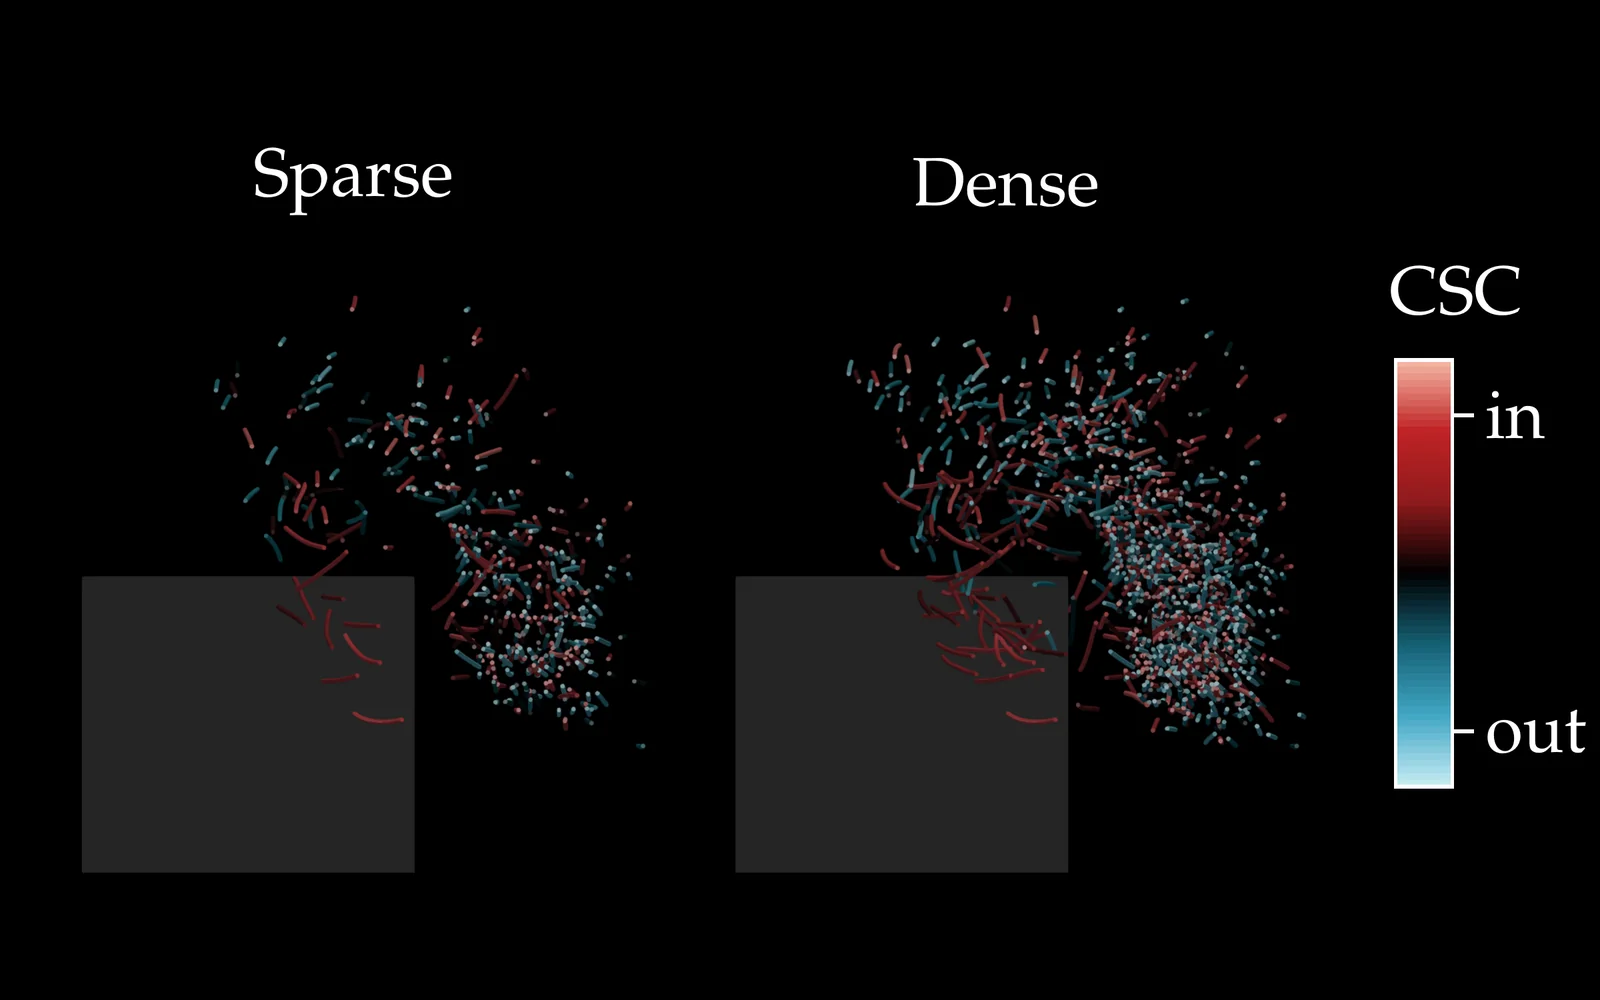
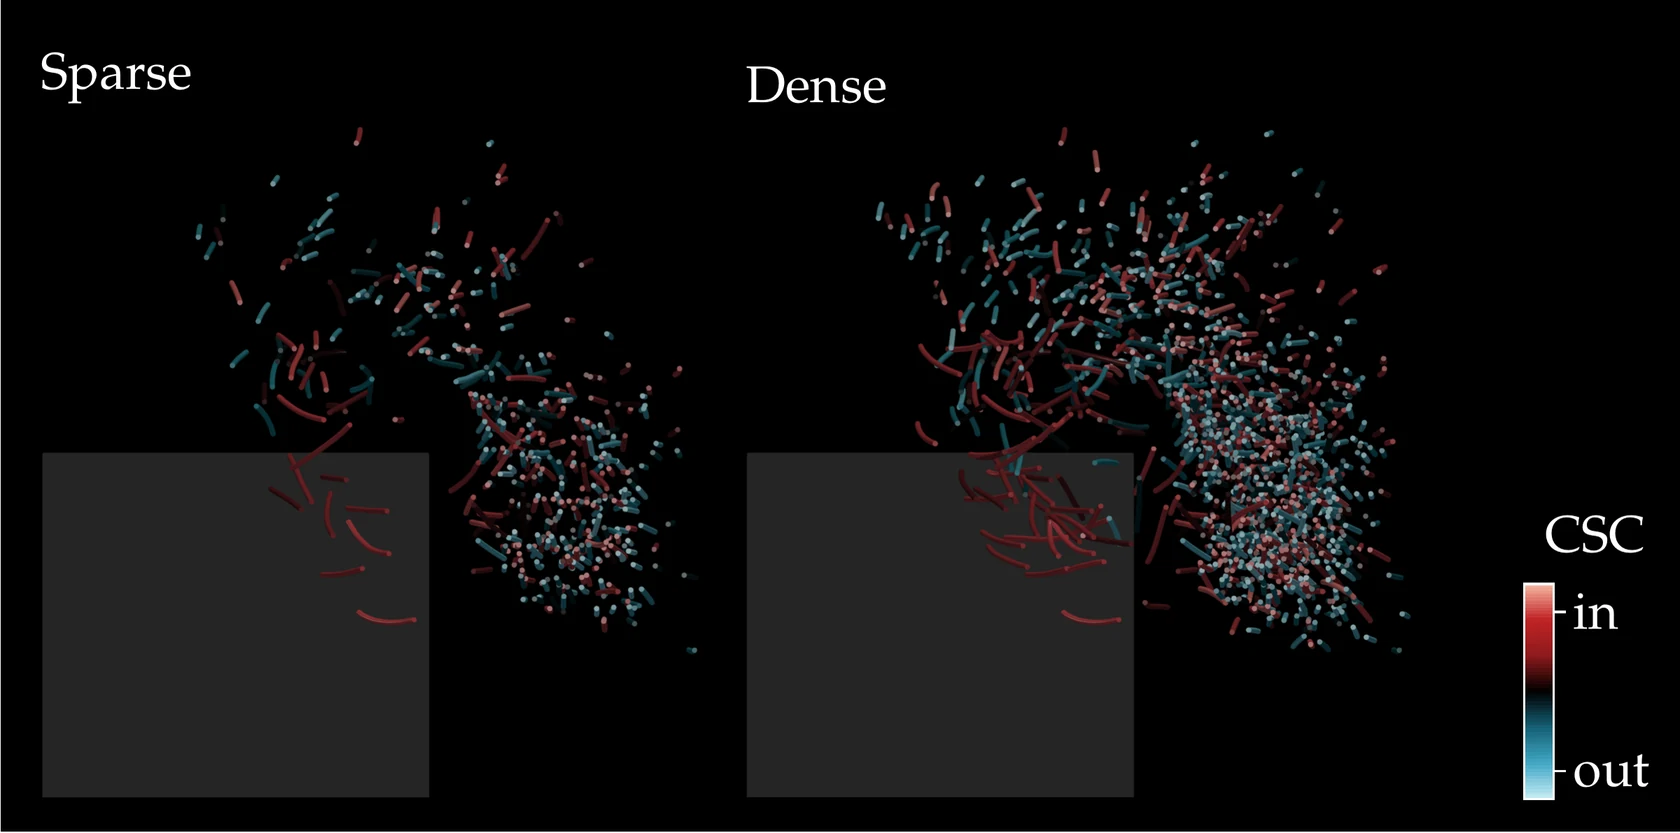
Tighter figure to the OpenONDA figure spec
Cropped to its content, labels above each panel, a short colour bar in
the bottom-right corner, brushed-metal solids, and a check that no text
covers the drawing. The README shows the figure at 560 px.

diff --git a/scripts/render/overlay.py b/scripts/render/overlay.py
@@ -1,94 +1,152 @@
-"""LaTeX overlay for the website renders, after the OpenONDA tutorial figures.
+"""LaTeX overlay for the website and README figures, after the OpenONDA tutorial figures.
 
-Puts a raw render on a fixed 16:10 canvas (90 mm x 56.25 mm) and adds white
-New PX text at 10.95 pt plus at most one vertical colour bar with end ticks.
-At the 600 px card width that text is about 26 px high, so it stays legible.
+Figure spec
+- Canvas 125 mm wide (the OpenONDA figure width), height set by the content.
+- Text: New PX at 10.95 pt, white on black. That is about 3 % of the image
+  width, so it reads as ~12.5 pt where READMEs show the figure 560 px wide and
+  ~10.5 pt on the 475 px website cards.
+- Each panel is trimmed to its content (anything brighter than the background)
+  plus a small margin, so there is no empty headroom.
+- Panel labels sit in a strip above their panel; the single colour bar is short
+  and sits in the bottom-right corner, in its own column. Neither may cover
+  the drawing: compose() checks that every pixel the overlay changes was
+  background, and fails otherwise.
 Writes <stem>.pdf, <stem>.png (2400 px wide) and <stem>.webp (quality 85).
 
-    compose("raw.png", "out/figure", bar=dict(name="thesis_blue", vmin=0, vmax=5,
-            title=r"$|\\omega|$ [1/s]"), labels=[(60, 40, r"$\\mathbf{U}$")])
+    compose([("raw.png", "Rotor only"), ("raw2.png", "Four wings")], "out/fig",
+            bar=dict(name="thesis_blue", vmin=0, vmax=0.6, title=r"$1-u_x/U_\\infty$"))
 """
 import shutil
 import subprocess
 import tempfile
 from pathlib import Path
 
+import numpy as np
 from PIL import Image
 
 from onda_style import colour
 
-WIDTH_MM, HEIGHT_MM = 90.0, 56.25
+WIDTH_MM = 125.0
 PIXELS = 2400
+PX_PER_MM = PIXELS / WIDTH_MM
+MARGIN_MM = 2.5            # around the canvas edge and between panels
+LABEL_MM = 6.5             # strip above a labelled panel
+BAR = dict(width=2.2, height=16.0, column=17.0, labels=6.0)   # bar size, its column, room for tick labels [mm]
+BACKGROUND = 18            # grey level below which a pixel counts as background
+
+
+def trim(img, pad_mm=1.0):
+    """Crop to pixels brighter than the background, plus pad_mm."""
+    a = np.asarray(img.convert("L"))
+    rows, cols = np.where(a > BACKGROUND)
+    pad = int(pad_mm * PX_PER_MM)
+    box = (max(cols.min() - pad, 0), max(rows.min() - pad, 0),
+           min(cols.max() + pad + 1, img.width), min(rows.max() + pad + 1, img.height))
+    return img.crop(box)
 
 
 def _num(v):
-    return f"{v:.2g}".replace("e+0", "e").replace("-", "$-$") if isinstance(v, float) else str(v)
+    return f"{v:g}".replace("-", "$-$")
 
 
-def compose(raw, stem, bar=None, labels=(), crop=None):
-    """bar: dict(name, vmin, vmax, title, fade=0.0, x=4, y=14, height=24, ticks=None)
-    labels: (x_mm, y_mm, latex, anchor) from the lower-left corner.
-    crop: (left, top, right, bottom) fractions removed from the raw image."""
-    raw, stem = Path(raw).resolve(), Path(stem)
+def compose(panels, stem, bar=None, layout="column", check=True):
+    """panels: list of (image path, label or None); layout: "column" or "row".
+    bar: dict(name, vmin, vmax, title, fade=0.0, ticks=[(fraction, text), ...])."""
+    stem = Path(stem)
     stem.parent.mkdir(parents=True, exist_ok=True)
-    work = Path(tempfile.mkdtemp())
-    img = Image.open(raw).convert("RGB")
-    if crop:
-        w, h = img.size
-        img = img.crop((int(crop[0] * w), int(crop[1] * h), int(w - crop[2] * w), int(h - crop[3] * h)))
-    # fill the canvas: scale to cover 16:10, centred
-    target = WIDTH_MM / HEIGHT_MM
-    w, h = img.size
-    if w / h > target:
-        nw = int(h * target)
-        img = img.crop(((w - nw) // 2, 0, (w - nw) // 2 + nw, h))
+    imgs = [trim(Image.open(p).convert("RGB")) for p, _ in panels]
+    labels = [lab for _, lab in panels]
+    bar_mm = BAR["column"] if bar else 0.0
+    avail = WIDTH_MM - 2 * MARGIN_MM - bar_mm
+    if layout == "column":
+        widths = [avail] * len(imgs)
+    else:   # row: equal heights, total width = avail
+        gaps = MARGIN_MM * (len(imgs) - 1)
+        k = sum(i.width / i.height for i in imgs)
+        widths = [(avail - gaps) * (i.width / i.height) / k for i in imgs]
+    heights = [w * i.height / i.width for w, i in zip(widths, imgs)]
+    lab_mm = LABEL_MM if any(labels) else 0.0
+    if layout == "column":
+        H = MARGIN_MM + sum(h + lab_mm for h in heights) + MARGIN_MM * len(imgs)
     else:
-        nh = int(w / target)
-        img = img.crop((0, (h - nh) // 2, w, (h - nh) // 2 + nh))
-    img.save(work / "raw.png")
-
-    body = [rf"\node[anchor=south west,inner sep=0] at (0,0) {{\includegraphics[width={WIDTH_MM}mm,height={HEIGHT_MM}mm]{{raw.png}}}};"]
+        H = 2 * MARGIN_MM + lab_mm + max(heights)
     if bar:
-        x, y, hgt, wid = bar.get("x", 4.0), bar.get("y", 14.0), bar.get("height", 24.0), 3.2
+        H = max(H, BAR["height"] + 12.0)
+    H = round(H, 2)
+
+    # base raster: panels on black, positions in mm from the top-left
+    W_px, H_px = PIXELS, int(round(H * PX_PER_MM))
+    base = Image.new("RGB", (W_px, H_px))
+    places, y, x = [], MARGIN_MM, MARGIN_MM
+    for img, w, h in zip(imgs, widths, heights):
+        if layout == "column":
+            px, py = MARGIN_MM, y + lab_mm
+            y = py + h + MARGIN_MM
+        else:
+            px, py = x, MARGIN_MM + lab_mm + (max(heights) - h) / 2
+            x += w + MARGIN_MM
+        places.append((px, py, w, h))
+        base.paste(img.resize((int(w * PX_PER_MM), int(h * PX_PER_MM)), Image.LANCZOS),
+                   (int(px * PX_PER_MM), int(py * PX_PER_MM)))
+
+    work = Path(tempfile.mkdtemp())
+    base.save(work / "base.png")
+    body = []
+    for (px, py, w, h), lab in zip(places, labels):
+        if lab:   # in a row, all labels share one baseline above the tallest panel
+            top = MARGIN_MM + lab_mm if layout == "row" else py
+            body.append(rf"\node[anchor=south west,white,inner sep=0] at ({px + 0.5},{H - top + 1.2}) {{{lab}}};")
+    if bar:
+        bw, bh = BAR["width"], BAR["height"]
+        # tucked into the bottom-right corner: tick labels end at the right margin
+        bx = WIDTH_MM - MARGIN_MM - BAR["labels"] - 0.9 - bw
+        by = MARGIN_MM
         n = 64
         for k in range(n):
             r, g, b = colour(bar["name"], (k + 0.5) / n, bar.get("fade", 0.0))
             body.append(rf"\definecolor{{c{k}}}{{rgb}}{{{r:.4f},{g:.4f},{b:.4f}}}")
-            body.append(rf"\fill[c{k}] ({x},{y + hgt * k / n:.4f}) rectangle ({x + wid},{y + hgt * (k + 1) / n:.4f});")
-        body.append(rf"\draw[white,line width=0.6pt] ({x},{y}) rectangle ({x + wid},{y + hgt});")
+            body.append(rf"\fill[c{k}] ({bx},{by + bh * k / n:.4f}) rectangle ({bx + bw},{by + bh * (k + 1) / n:.4f});")
+        body.append(rf"\draw[white,line width=0.5pt] ({bx},{by}) rectangle ({bx + bw},{by + bh});")
         ticks = bar.get("ticks") or [(0.0, _num(bar["vmin"])), (1.0, _num(bar["vmax"]))]
         for f, text in ticks:
-            yy = y + hgt * f
-            body.append(rf"\draw[white,line width=0.6pt] ({x + wid},{yy}) -- ({x + wid + 1.2},{yy});")
-            body.append(rf"\node[anchor=west,white,inner sep=0.6mm] at ({x + wid + 1.2},{yy}) {{{text}}};")
-        body.append(rf"\node[anchor=south west,white,inner sep=0] at ({x - 0.4},{y + hgt + 2.4}) {{{bar['title']}}};")
-    for lab in labels:
-        xx, yy, text = lab[:3]
-        anchor = lab[3] if len(lab) > 3 else "center"
-        body.append(rf"\node[anchor={anchor},white,inner sep=0.5mm] at ({xx},{yy}) {{{text}}};")
-    tex = (r"""\documentclass[tikz,border=0pt]{standalone}
+            yy = by + bh * f
+            body.append(rf"\draw[white,line width=0.5pt] ({bx + bw},{yy}) -- ({bx + bw + 0.9},{yy});")
+            body.append(rf"\node[anchor=west,white,inner sep=0.5mm] at ({bx + bw + 0.9},{yy}) {{{text}}};")
+        body.append(rf"\node[anchor=south east,white,inner sep=0] at ({WIDTH_MM - MARGIN_MM},{by + bh + 2.2}) {{{bar['title']}}};")
+    def latex(name, lines):
+        tex = r"""\documentclass[tikz,border=0pt]{standalone}
 \usepackage[T1]{fontenc}
 \usepackage{newpxtext,newpxmath}
 \usepackage{graphicx}
 \begin{document}
 \begin{tikzpicture}[x=1mm,y=1mm,font=\fontsize{10.95}{13.1}\selectfont]
 \clip (0,0) rectangle (%s,%s);
-\fill[black] (0,0) rectangle (%s,%s);
+\node[anchor=south west,inner sep=0] at (0,0) {\includegraphics[width=%smm,height=%smm]{base.png}};
 %s
 \end{tikzpicture}
 \end{document}
-""" % (WIDTH_MM, HEIGHT_MM, WIDTH_MM, HEIGHT_MM, "\n".join(body)))
-    (work / "fig.tex").write_text(tex)
-    run = subprocess.run(["pdflatex", "-interaction=nonstopmode", "fig.tex"], cwd=work, capture_output=True, text=True)
-    if run.returncode:
-        raise RuntimeError(run.stdout[-2000:])
+""" % (WIDTH_MM, H, WIDTH_MM, H, "\n".join(lines))
+        (work / f"{name}.tex").write_text(tex)
+        run = subprocess.run(["pdflatex", "-interaction=nonstopmode", f"{name}.tex"], cwd=work, capture_output=True, text=True)
+        if run.returncode:
+            raise RuntimeError(run.stdout[-2000:])
+        subprocess.run(["pdftoppm", "-png", "-r", f"{PX_PER_MM * 25.4:.3f}", "-singlefile", f"{name}.pdf", name],
+                       cwd=work, check=True)
+        return Image.open(work / f"{name}.png").convert("RGB").resize((W_px, H_px), Image.LANCZOS)
+
+    out = latex("fig", body)
     shutil.copy(work / "fig.pdf", stem.with_suffix(".pdf"))
-    dpi = PIXELS / (WIDTH_MM / 25.4)
-    subprocess.run(["pdftoppm", "-png", "-r", f"{dpi:.3f}", "-singlefile", "fig.pdf", "out"], cwd=work, check=True)
-    out = Image.open(work / "out.png").convert("RGB")
-    out = out.resize((PIXELS, round(PIXELS * HEIGHT_MM / WIDTH_MM)), Image.LANCZOS)
+    if check:   # every pixel the overlay changes must have been background
+        plain = latex("plain", [])
+        a, b = np.asarray(plain.convert("L")).astype(int), np.asarray(out.convert("L")).astype(int)
+        changed = np.abs(a - b) > 40
+        clash = changed & (a > BACKGROUND + 12)
+        if clash.sum() > 0.002 * max(changed.sum(), 1):
+            ys, xs = np.where(clash)
+            raise RuntimeError(f"overlay covers the drawing near x = {xs.mean() / PX_PER_MM:.0f} mm, "
+                               f"y = {ys.mean() / PX_PER_MM:.0f} mm from the top-left ({clash.sum()} px)")
     out.save(stem.with_suffix(".png"), optimize=True)
     out.save(stem.with_suffix(".webp"), quality=85, method=6)
     shutil.rmtree(work)
-    for ext in (".png", ".webp"):
-        print(stem.with_suffix(ext), f"{stem.with_suffix(ext).stat().st_size / 1e3:.0f} kB", out.size)
+    print(stem.with_suffix(".webp"), f"{stem.with_suffix('.webp').stat().st_size / 1e3:.0f} kB", out.size,
+          f"{WIDTH_MM:g} x {H:g} mm")

diff --git a/scripts/render/onda_style.py b/scripts/render/onda_style.py
@@ -7,7 +7,8 @@ Rules:
 - black background; the low end of each sequential map fades into it;
 - one-hue OpenONDA maps: thesis_blue for magnitudes, thesis_signed for signed
   fields with a meaningful zero (signed_dark on black), thesis_amber for streamlines and trajectories;
-- solids are matte grey PBR; no outlines, axes or floors;
+- solids are matte grey PBR; metal parts use metal() (brushed, grainy metal);
+  no outlines, axes or floors;
 - OpenGL with the OpenONDA light kit and filmic tone mapping;
 - text and the single colour bar are added afterwards by overlay.py (LaTeX,
   New PX), large enough to read at the figure's display size.
@@ -109,3 +110,70 @@ def save(view, path, width, height):
     view.Update()
     SaveScreenshot(str(path), view, ImageResolution=[width, height],
                    TransparentBackground=0, CompressionLevel=0)
+
+
+def _grain_textures(directory, size=512, seed=3):
+    """Brushed-metal textures: an ORM map (occlusion, roughness, metallic) with
+    streaky roughness, and a matching normal map. Written as PNG with VTK."""
+    from pathlib import Path
+
+    import numpy as np
+    from vtkmodules.util.numpy_support import numpy_to_vtk
+    from vtkmodules.vtkCommonDataModel import vtkImageData
+    from vtkmodules.vtkIOImage import vtkPNGWriter
+    rng = np.random.default_rng(seed)
+    noise = rng.standard_normal((size, size))
+    # streaks: smooth strongly along u (the brushing direction), lightly along v
+    k = np.exp(-np.linspace(-3, 3, 61) ** 2)
+    streak = np.apply_along_axis(lambda r: np.convolve(np.r_[r[-30:], r, r[:30]], k / k.sum(), "valid"), 1, noise)
+    fine = rng.standard_normal((size, size)) * 0.35
+    h = streak / streak.std() + fine
+    rough = np.clip(0.32 + 0.10 * h, 0.12, 0.7)
+    orm = np.stack([np.ones_like(h), rough, np.full_like(h, 0.2)], -1)   # partly metallic: a black
+    # background gives a fully metallic surface nothing to reflect, so keep some diffuse shading
+    gy, gx = np.gradient(h)
+    n = np.stack([-0.2 * gx, -0.2 * gy, np.ones_like(h)], -1)
+    n /= np.linalg.norm(n, axis=-1, keepdims=True)
+    paths = {}
+    for name, arr in (("metal_orm", orm), ("metal_normal", 0.5 * n + 0.5)):
+        img = vtkImageData()
+        img.SetDimensions(size, size, 1)
+        img.GetPointData().SetScalars(numpy_to_vtk((arr * 255).astype(np.uint8).reshape(-1, 3), deep=1))
+        path = Path(directory) / f"{name}.png"
+        w = vtkPNGWriter()
+        w.SetFileName(str(path))
+        w.SetInputData(img)
+        w.Write()
+        paths[name] = str(path)
+    return paths
+
+
+def metal(source, view, mapping="cylinder", rgb=(0.92, 0.93, 0.95), repeat=(4.0, 1.0)):
+    """Show ``source`` as brushed metal: metallic PBR with grainy roughness and
+    micro-normals. mapping: how texture coordinates are laid on (cylinder,
+    plane or sphere). Returns the display."""
+    import tempfile
+    from pathlib import Path as _P
+    from paraview.simple import (CreateTexture, ExtractSurface, Show, SurfaceNormals, SurfaceTangents,
+                                 TextureMaptoCylinder, TextureMaptoPlane, TextureMaptoSphere, Triangulate)
+    mapper = {"cylinder": TextureMaptoCylinder, "plane": TextureMaptoPlane, "sphere": TextureMaptoSphere}[mapping]
+    tc = mapper(Input=SurfaceNormals(Input=ExtractSurface(Input=source)))   # any dataset -> polygons
+    if mapping == "cylinder":
+        tc.PreventSeam = 0
+    tangents = SurfaceTangents(Input=Triangulate(Input=tc))   # tangents need triangles
+    tex = _grain_textures(_P(tempfile.mkdtemp()))
+    d = Show(tangents, view)
+    d.Representation = "Surface"
+    d.ColorArrayName = ["POINTS", ""]
+    d.DiffuseColor = d.AmbientColor = list(rgb)
+    d.Interpolation = "PBR"
+    d.Metallic = 1.0                       # scaled by the ORM texture's metallic channel
+    d.Roughness = 1.0                      # scaled by the ORM texture's roughness channel
+    d.MaterialTexture = CreateTexture(tex["metal_orm"])
+    d.NormalTexture = CreateTexture(tex["metal_normal"])
+    d.NormalScale = 1.0
+    d.RepeatTextures = 1
+    d.InterpolateTextures = 1
+    d.TextureTransform = "Transform2"
+    d.TextureTransform.Scale = [repeat[0], repeat[1], 1.0]
+    return d

diff --git a/scripts/render/compose_tracks.py b/scripts/render/compose_tracks.py
@@ -3,24 +3,13 @@
 Usage: python compose_tracks.py <sparse png> <dense png> <output stem>
 """
 import sys
-import tempfile
 from pathlib import Path
-
-from PIL import Image
 
 sys.path.insert(0, str(Path(__file__).resolve().parent))
 from overlay import compose  # noqa: E402
 
+C_RANGE = 1.35          # same as render_tracks.py: CSC = -1 and 1 sit inside the map
 left, right, stem = (Path(a) for a in sys.argv[1:4])
-a, b = Image.open(left).convert("RGB"), Image.open(right).convert("RGB")
-side = 980
-a, b = a.resize((side, side), Image.LANCZOS), b.resize((side, side), Image.LANCZOS)
-canvas = Image.new("RGB", (2400, 1500))          # 16:10, room for labels above and the bar on the right
-canvas.paste(a, (40, 330))
-canvas.paste(b, (40 + side, 330))
-raw = Path(tempfile.mkdtemp()) / "pair.png"
-canvas.save(raw)
-compose(raw, stem,
-        bar=dict(name="signed_dark", vmin=-1, vmax=1, x=78.5, y=12, height=24, title="CSC",
-                 ticks=[(0.5 - 0.5 / 1.35, "out"), (0.5 + 0.5 / 1.35, "in")]),   # CSC = -1 and 1 on the +/-1.35 map
-        labels=[(19.9, 46.0, "Sparse", "center"), (56.6, 46.0, "Dense", "center")])
+compose([(left, "Sparse"), (right, "Dense")], stem, layout="row",
+        bar=dict(name="signed_dark", vmin=-1, vmax=1, title="CSC",
+                 ticks=[(0.5 - 0.5 / C_RANGE, "out"), (0.5 + 0.5 / C_RANGE, "in")]))

diff --git a/scripts/render/render_tracks.py b/scripts/render/render_tracks.py
@@ -17,7 +17,7 @@ import onda_style as style  # noqa: E402
 from paraview.simple import Plane, Show, Tube, XMLPolyDataReader  # noqa: E402
 
 src, out, radius = Path(sys.argv[1]), Path(sys.argv[2]), float(sys.argv[3])
-width, height = (int(a) for a in (sys.argv[4:6] if len(sys.argv) > 5 else (1200, 1200)))
+width, height = (int(a) for a in (sys.argv[4:6] if len(sys.argv) > 5 else (1800, 1800)))
 
 view = style.setup_view(width, height)
 C_RANGE = 1.35      # CSC spans [-1, 1]; the wider map range keeps both ends saturated, not pastel

diff --git a/README.md b/README.md
@@ -2,7 +2,7 @@
 
 **Find vortices in sparse particle tracks.**
 
-![Particle tracks measured behind an Ahmed body, seen along the stream, for sparse and dense seeding; tracks in the trailing vortex glow red](docs/assets/render.webp)
+<p align="center"><img src="docs/assets/render.webp" width="560" alt="Particle tracks measured behind an Ahmed body, seen along the stream, for sparse and dense seeding; tracks in the trailing vortex glow red"></p>
 
 Coherent-structure colouring (CSC) gives each particle track a value from how its distance to every other track changes in time; tracks that move together get similar values. This Python version also picks the eigenvector that separates the vortex (`select_mode`), because on sparse measured tracks the classical leading eigenvector mostly separates fast from slow fluid. The repository includes Ahmed-body tracks from the paper's experiment.
 
